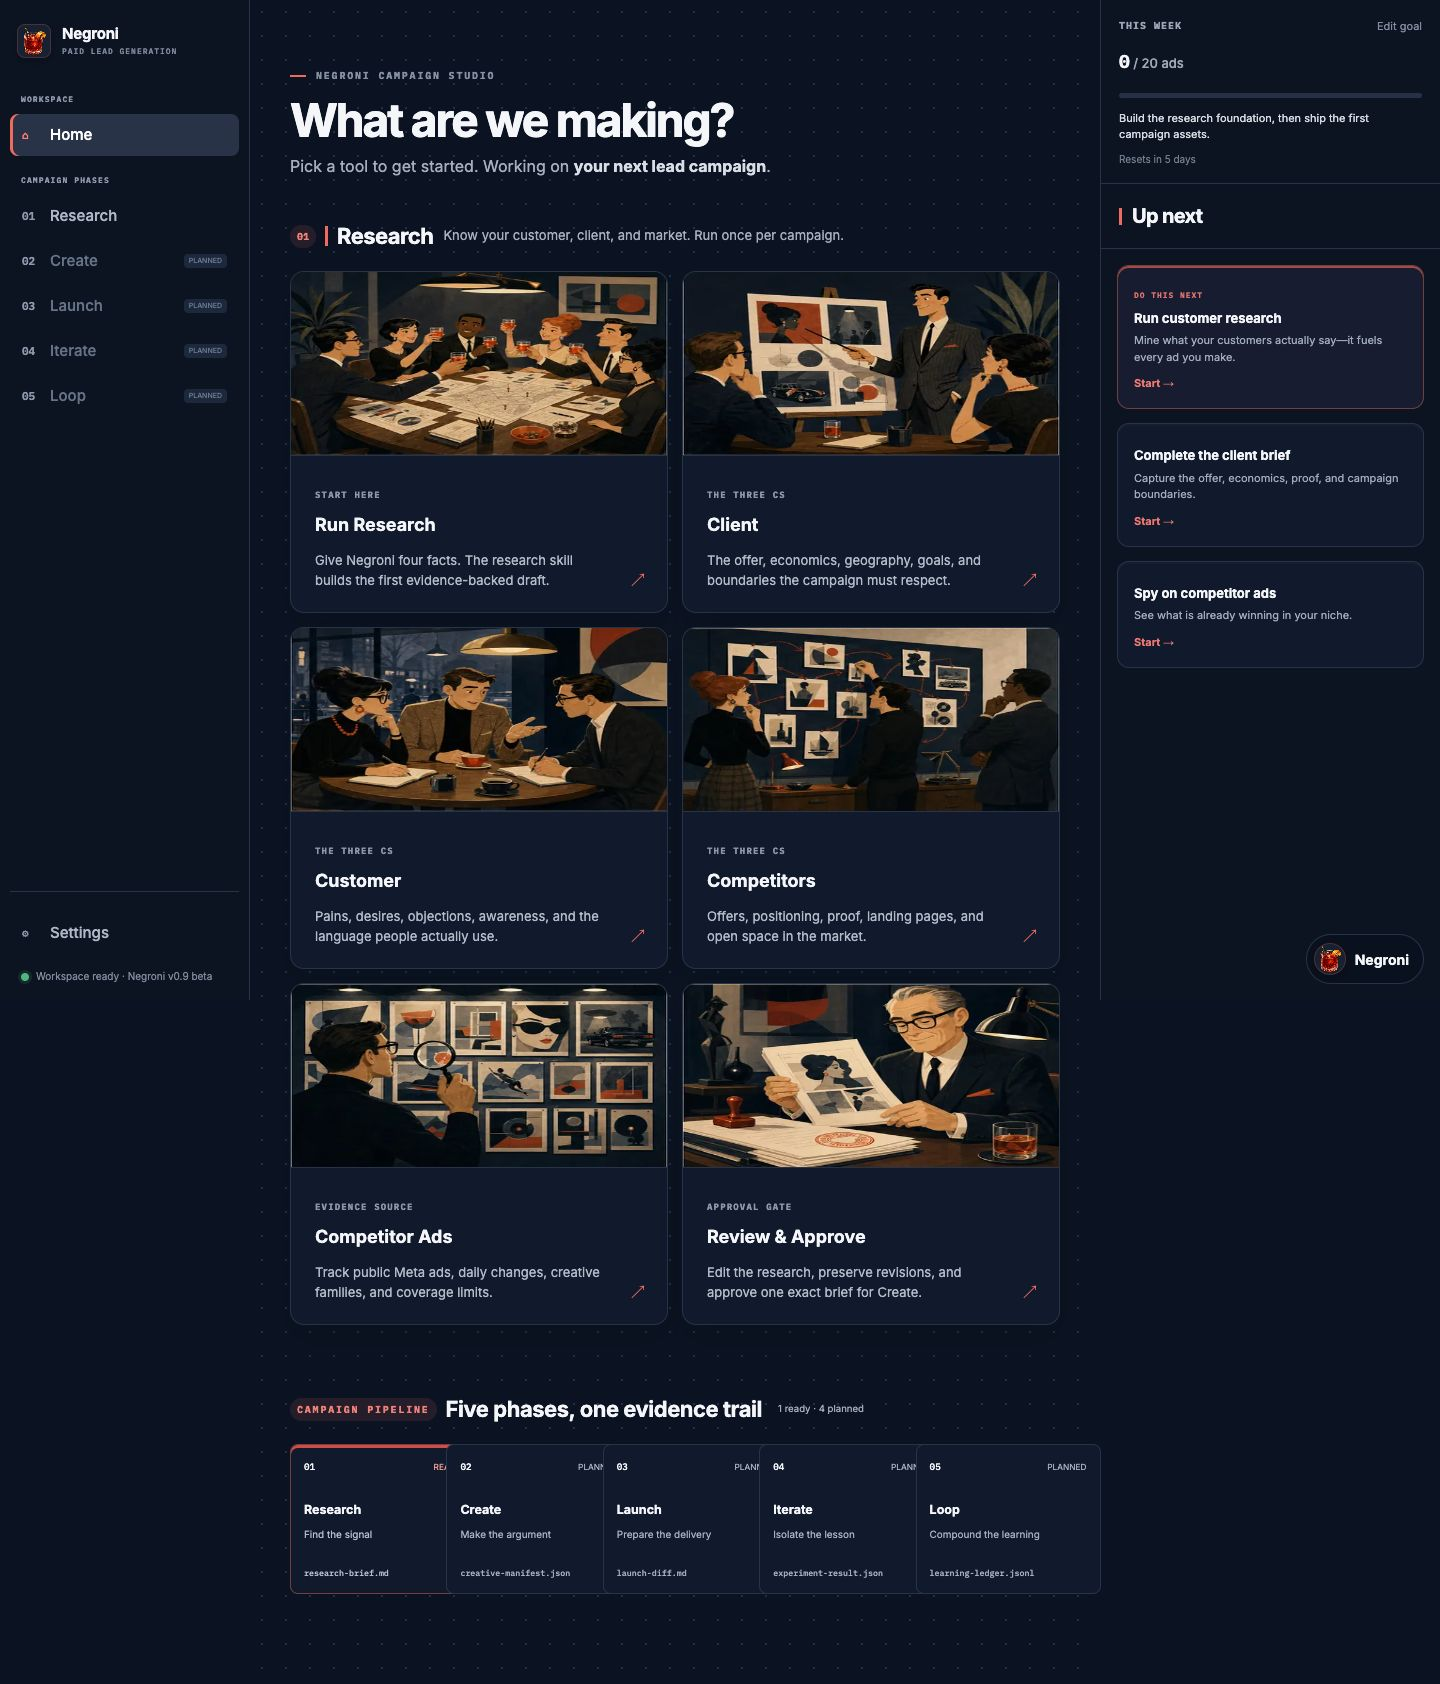
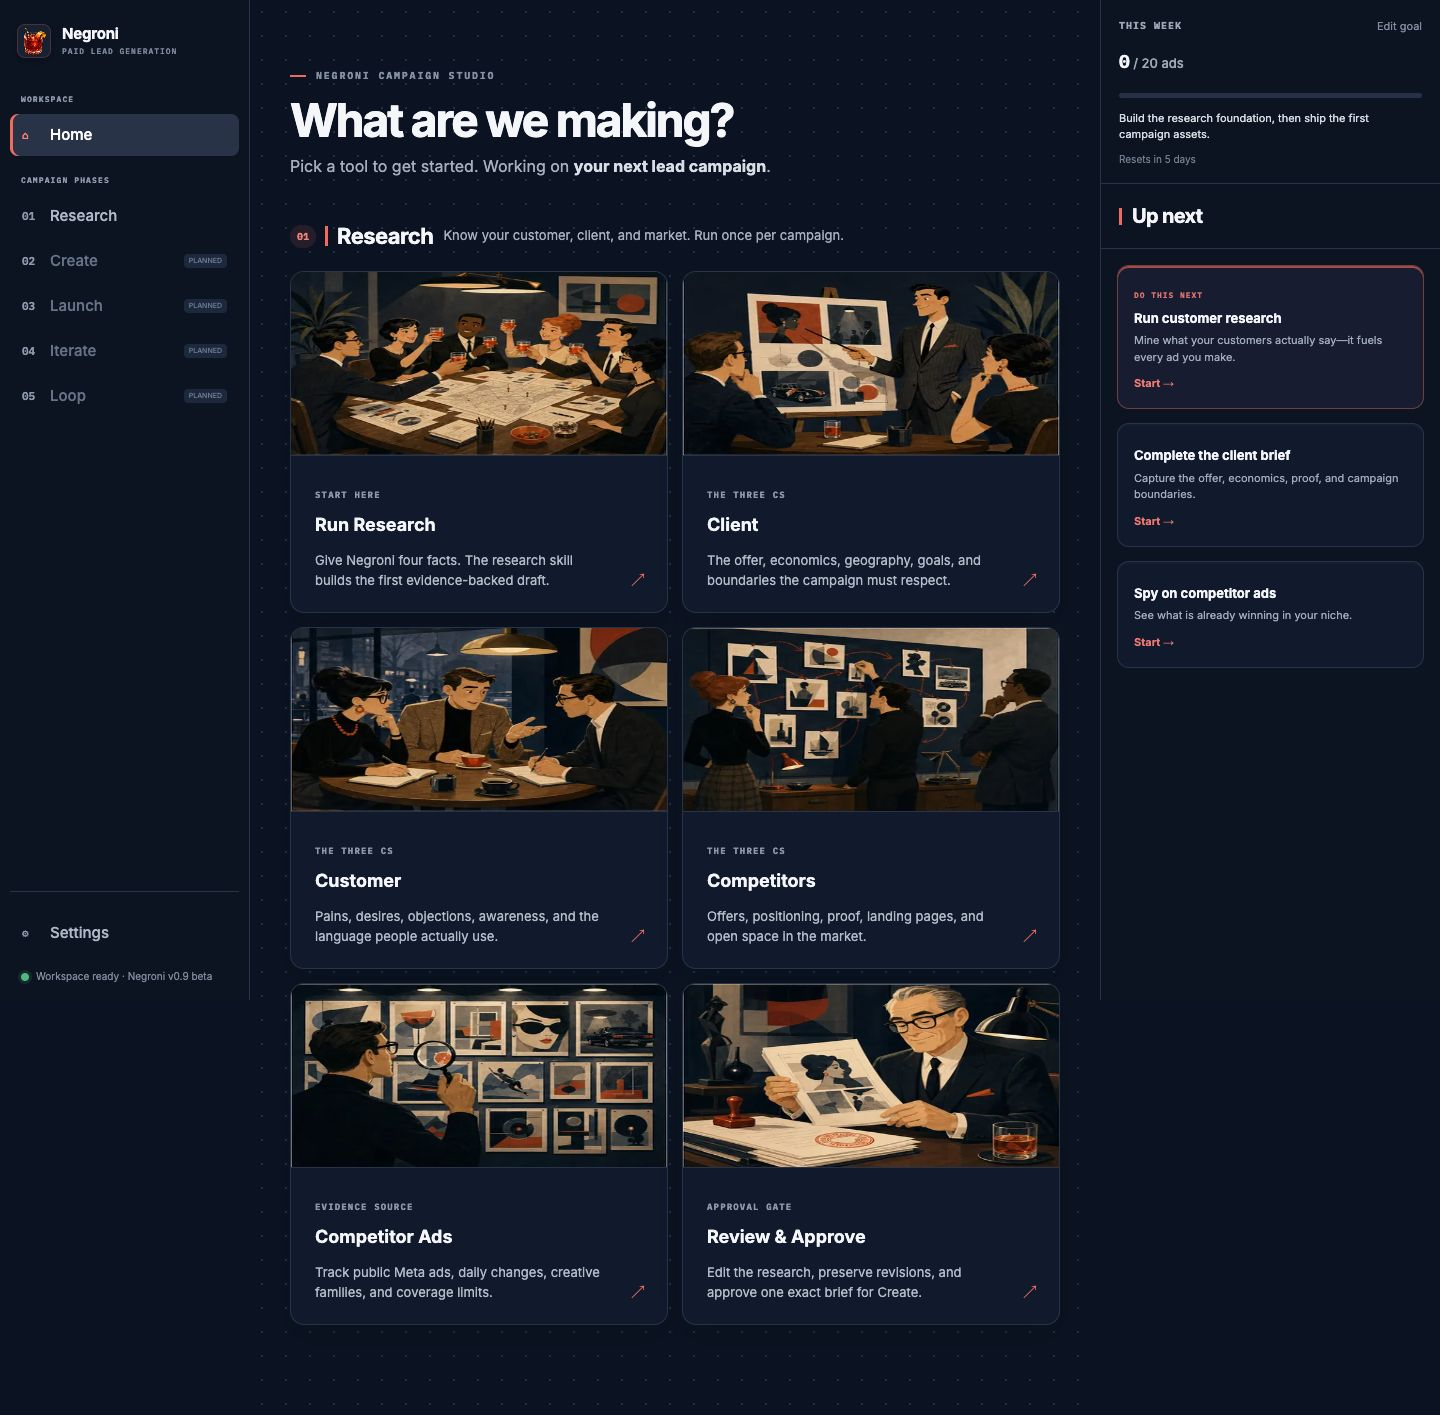
Simplify the Negroni homepage

diff --git a/app/components/intelligence-client.tsx b/app/components/intelligence-client.tsx
@@ -511,18 +511,6 @@ export function IntelligenceClient() {
 
           </section>
 
-          <section className="pipeline-card" aria-labelledby="pipeline-title">
-            <div className="section-title-row"><div><p className="utility-label">Campaign pipeline</p><h2 id="pipeline-title">Five phases, one evidence trail</h2></div><small>1 ready · 4 planned</small></div>
-            <ol className="dashboard-phases" aria-label="Campaign phases" tabIndex={0}>
-              {PHASES.map((phase) => (
-                <li className={phase.number === "01" ? "dashboard-phase-ready" : ""} key={phase.number}>
-                  <div><span>{phase.number}</span><small>{phase.state}</small></div>
-                  <strong>{phase.name}</strong><p>{phase.verb}</p><code>{phase.artifact}</code>
-                </li>
-              ))}
-            </ol>
-          </section>
-
           <section className="dashboard-lower">
             <article className="activity-card">
               <div className="section-title-row"><div><p className="utility-label">Agent activity</p><h2>Recent work</h2></div><small>Local workspace</small></div>
@@ -851,7 +839,6 @@ export function IntelligenceClient() {
             </article>
           </div>
         </section>
-        <button className="jarvis-pill" type="button" onClick={() => navigate("settings")}><span className="brand-mark" aria-hidden="true" /> Negroni</button>
       </aside>
     </div>
   );

diff --git a/app/AGENTS.md b/app/AGENTS.md
@@ -8,8 +8,9 @@ handoff. Do not duplicate or weaken the skill’s method.
 
 Keep one application route with a serious B2B SaaS shell: Home, the five-phase
 sidebar, and Settings. User-facing phase labels are Research, Create, Launch,
-Iterate, and Loop. Home shows campaign state, phase progression, agent
-readiness, artifact handoffs, and the honest next action. Research contains
+Iterate, and Loop. Keep Home sparse: show the Research action cards and the
+honest next action, while leaving phase progression in the persistent sidebar
+instead of duplicating it as a second five-card pipeline. Research contains
 saved sets, the four required inputs, five-prompt sequence, run status, monitor
 receipt, three outputs, and the interactive seed editor. Settings is the single
 home for appearance, commit approvals, supported provider connections, API
